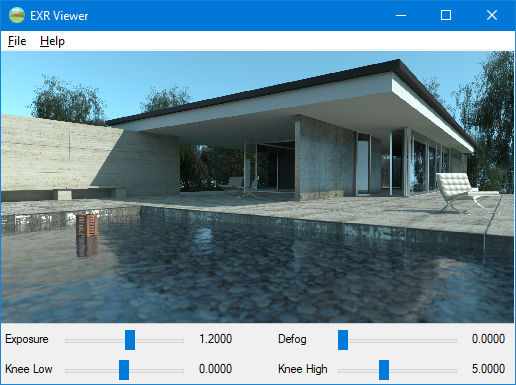
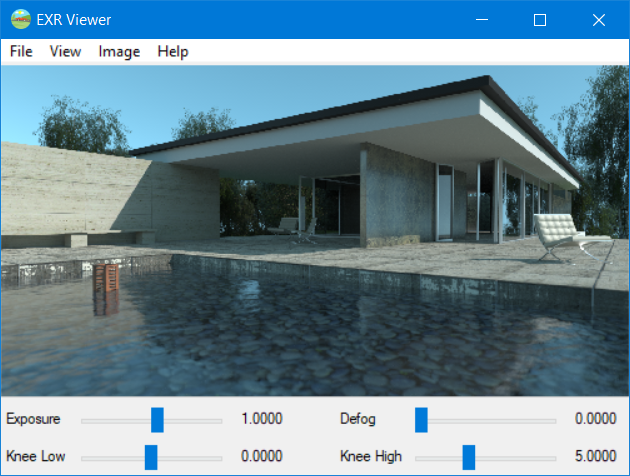
update menu

diff --git a/exrviewer/viewimage.cpp b/exrviewer/viewimage.cpp
@@ -148,12 +148,13 @@ void ImageViewer::LoadEXR(
 {
 	const char channel_A[2]= "A";
 	const char channel_Z[2] = "Z";
-	const char layer[2] = "";
 	const char* channel = nullptr;
+	const char* layer = nullptr;
 	if (m_Option.Channel == ALPHA_CHANNEL)
 		channel = channel_A;
 	else if (m_Option.Channel == DEPTH_CHANNEL)
 		channel = channel_Z;
+
 	int PartIndex = 0;
 	m_img.PartNum = GetPartNum(fileName);
 	LoadExrImage(fileName, channel, layer, preview, lx, ly, PartIndex, m_zsize, &m_img);
@@ -174,7 +175,7 @@ void ImageViewer::OpenImage(const char * filename)
 	}
 
 	LoadEXR(filename, false, -1, -1);
-
+	AppendEXRPartIndexMenu();
 	m_img.rgb = new BYTE[m_img.width * m_img.height * 3];
 
 	UpdateImage();
@@ -485,6 +486,35 @@ int ImageViewer::GetPartNum(const char* filename)
 		return 0;
 	}
 	return numparts;
+}
+
+void ImageViewer::RemoveEXRPartIndexMenu()
+{
+	const int IDM_PARTIDX_0 = 64000;
+	const int IMG_MENU_POS = 2;
+	if (m_img.PartNum >= 1)
+	{
+		HMENU hImgMenu = m_pMenuMan->GetSubItem(IMG_MENU_POS);
+		for (int i = 0; i < m_img.PartNum; ++i)
+		{
+			m_pMenuMan->RemoveItem(hImgMenu, IDM_PARTIDX_0 + i);
+		}
+	}
+}
+void ImageViewer::AppendEXRPartIndexMenu()
+{
+	const int IDM_PARTIDX_0 = 64000;
+	const int IMG_MENU_POS = 2;
+	if (m_img.PartNum >= 1)
+	{
+		HMENU hImgMenu = m_pMenuMan->GetSubItem(IMG_MENU_POS);
+		WCHAR ch[20] = {};
+		for (int i = 0; i < m_img.PartNum; ++i)
+		{
+			swprintf_s(ch, 20, L"Part Index %d", i);
+			m_pMenuMan->AppendItem(hImgMenu, IDM_PARTIDX_0+i, ch);
+		}
+	}
 }
 
 void ImageViewer::CreateThreads()

diff --git a/exrviewer/EXRViewer.cpp b/exrviewer/EXRViewer.cpp
@@ -29,6 +29,7 @@ BOOL FetchOpenFileName(HWND hWnd, LPSTR pszOutputName, LPSTR pszTitle = NULL);
 HINSTANCE hInst;
 WCHAR szTitle[MAX_LOADSTRING];
 WCHAR szWindowClass[MAX_LOADSTRING];
+MenuMan *g_pMenuMan = nullptr;
 CtlPanel *g_pPanel = nullptr;
 ImgPanel *g_pImgWnd = nullptr;
 ImageViewer *g_pViewer = nullptr;
@@ -108,7 +109,7 @@ LRESULT CALLBACK WndProc(HWND hWnd, UINT message, WPARAM wParam, LPARAM lParam)
 			}
 				break;
 			case IDM_ACTUALSIZE:
-				SetMainMenuItemState(hWnd, IDM_ACTUALSIZE, g_pViewer->SetOption(OPT_ACTUALSIZE)? true: false);
+				g_pMenuMan->CheckMainItem(IDM_ACTUALSIZE, g_pViewer->GetOption(OPT_ACTUALSIZE) ? true : false);
 				break;
             case IDM_ABOUT:
                 DialogBox(hInst, MAKEINTRESOURCE(IDD_ABOUTBOX), hWnd, About);
@@ -163,13 +164,15 @@ INT_PTR CALLBACK About(HWND hDlg, UINT message, WPARAM wParam, LPARAM lParam)
 
 void OnCreate(HWND hWnd)
 {
+	g_pMenuMan = new MenuMan(hWnd);
 	g_pPanel = new CtlPanel(0, 0, 0, 0, hWnd, hInst);
 	g_pImgWnd = new ImgPanel(0, 0, 0, 0, hWnd, hInst);
 	g_pViewer = new ImageViewer(g_pImgWnd->GetHWND());
+	g_pViewer->SetMenuMan(g_pMenuMan);
 	g_pPanel->SetViewer(g_pViewer);
 	g_pImgWnd->SetViewer(g_pViewer);
 
-	SetMainMenuItemState(hWnd, IDM_ACTUALSIZE, g_pViewer->GetOption(OPT_ACTUALSIZE) ? true : false);
+	g_pMenuMan->CheckMainItem(IDM_ACTUALSIZE, g_pViewer->GetOption(OPT_ACTUALSIZE) ? true : false);
 }
 
 void OnSize(HWND hWnd, int width, int height)

diff --git a/exrviewer/viewimage.h b/exrviewer/viewimage.h
@@ -158,6 +158,7 @@ public:
 	virtual inline void SetKneeHigh(float v) { m_kneeHigh = v; }
 	virtual int SetOption(VIEWER_OPTION_TYPE type, int value = 0);
 	virtual int GetOption(VIEWER_OPTION_TYPE type);
+	virtual void SetMenuMan(MenuMan* m) { m_pMenuMan = m; }
 	virtual void InvalidateRect(bool redraw = true)
 	{
 		::InvalidateRect(m_hWnd, nullptr, redraw);
@@ -176,6 +177,7 @@ public:
 	virtual void ClearImage();
 	virtual void CloseImage()
 	{
+		RemoveEXRPartIndexMenu();
 		SAFEDELETE(m_img.rgb);
 		m_Scroll.Show(SB_BOTH, false);
 	}
@@ -187,7 +189,9 @@ public:
 	virtual void RunThread(int index);
 
 protected:
-
+	virtual void AppendEXRPartIndexMenu();
+	virtual void RemoveEXRPartIndexMenu();
+	
 	virtual int GetPartNum(const char* filename);
 	virtual void LoadEXR(
 		const char fileName[],/*
@@ -250,6 +254,7 @@ protected:
 	int m_WndWidth;
 	int m_WndHeight;
 	VIEWER_OPTION m_Option;
+	MenuMan* m_pMenuMan;
 
 	DispRect m_StretchRect;
 	DispRect m_ScrollRect;

diff --git a/exrviewer/uikit/userctrl.h b/exrviewer/uikit/userctrl.h
@@ -108,6 +108,40 @@ inline void EditboxSetHex(HWND hEditbox, DWORD value)
 	Edit_SetText(hEditbox, output);
 }
 
+class MenuMan
+{
+public:
+	MenuMan() {}
+	MenuMan(HWND hwnd) { Init(hwnd); }
+	~MenuMan() {}
+	void Init(HWND hwnd)
+	{
+		m_hWnd = hwnd;
+		m_hMainMenu = ::GetMenu(m_hWnd);
+	}
+	HMENU GetSubItem(int Pos)
+	{
+		return ::GetSubMenu(m_hMainMenu, Pos);
+	}
+	void CheckItem(HMENU hMenu, DWORD ItemId, bool bCheck);
+	void CheckMainItem(DWORD ItemId, bool bCheck)
+	{
+		CheckItem(m_hMainMenu, ItemId, bCheck);
+	}
+	void AppendItem(HMENU hMenu, DWORD ItemId, PWSTR str)
+	{
+		::AppendMenuW(hMenu, MF_STRING, ItemId, str);
+	}
+	void RemoveItem(HMENU hMenu, DWORD ItemId)
+	{
+		::RemoveMenu(hMenu, ItemId, MF_BYCOMMAND);
+	}
+
+protected:
+	HWND m_hWnd;
+	HMENU m_hMainMenu;
+};
+
 class StandardScroll
 {
 public:

diff --git a/exrviewer/uikit/userctrl.cpp b/exrviewer/uikit/userctrl.cpp
@@ -23,6 +23,21 @@ void SetMainMenuItemState(HWND hWnd, DWORD ItemId, bool bCheck)
 	SetMenuItemState(GetMenu(hWnd), ItemId, bCheck);
 }
 
+void MenuMan::CheckItem(HMENU hMenu, DWORD ItemId, bool bCheck)
+{
+	if (hMenu)
+	{
+		if (bCheck)
+		{
+			::CheckMenuItem(hMenu, ItemId, MF_BYCOMMAND | MF_CHECKED);
+		}
+		else
+		{
+			::CheckMenuItem(hMenu, ItemId, MF_BYCOMMAND | MF_UNCHECKED);
+		}
+	}
+}
+
 int SliderSet::OnMessage(HWND hWnd, UINT message, WPARAM wParam, LPARAM lParam)
 {
 	switch (message)

diff --git a/README.md b/README.md
@@ -7,7 +7,7 @@ It use Win32 window system and GDI instead of 3rd-party graphics libs for image 
 2. Open projects with Visual Studio 2015.
 
 ## Snapshot
-<img width="516" src="exrviewer.png" />
+<img width="630" src="exrviewer.png" />
 
 ## Dependency
 - IlmBase
